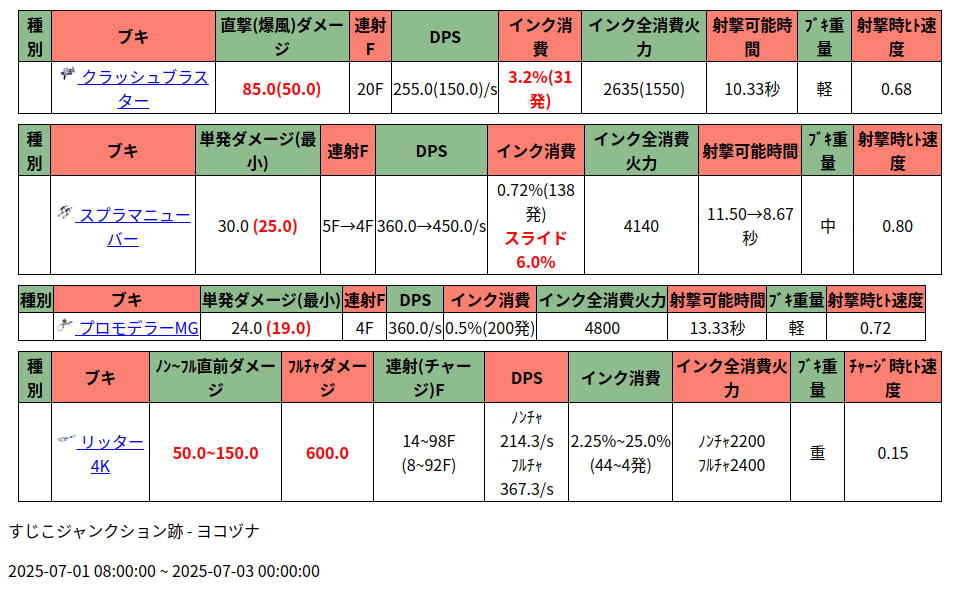
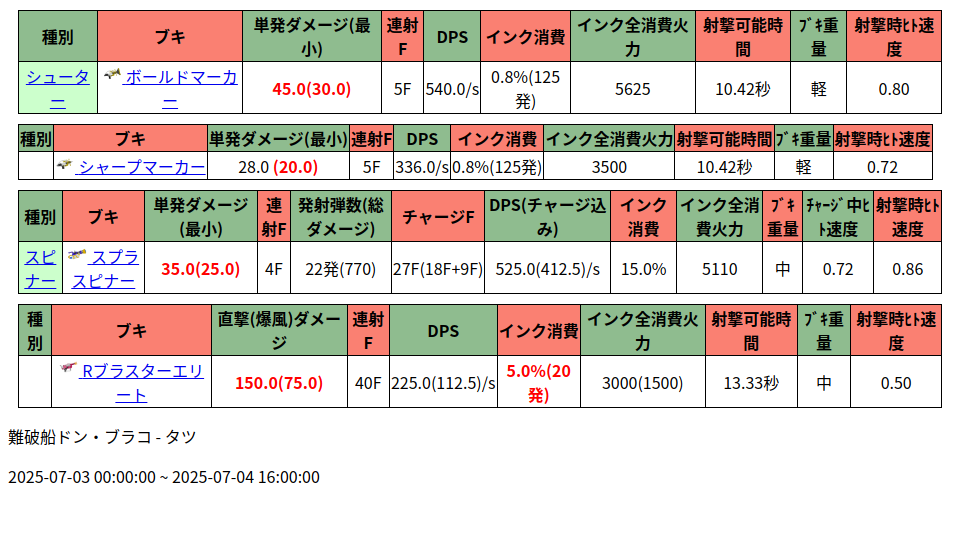
Automated changes by GitHub Actions

diff --git a/salmonRun.html b/salmonRun.html
@@ -1,1 +1,1 @@
-<head><meta charset="UTF-8"><style>table{border-collapse: collapse;border: 1px solid black;margin:10px;}td, th {border: 1px solid black;}</style></head><table><thead> <tr>  <td style="background-color:DarkSeaGreen; text-align:center;">   <strong>    種別   </strong>  </td>  <td style="background-color:Salmon; text-align:center;">   <strong>    ブキ   </strong>  </td>  <td style="background-color:DarkSeaGreen; text-align:center;">   <strong>    直撃(爆風)ダメージ   </strong>  </td>  <td style="background-color:Salmon; text-align:center;">   <strong>    連射F   </strong>  </td>  <td style="background-color:DarkSeaGreen; text-align:center;">   <strong>    DPS   </strong>  </td>  <td style="background-color:Salmon; text-align:center;">   <strong>    インク消費   </strong>  </td>  <td style="background-color:DarkSeaGreen; text-align:center;">   <strong>    インク全消費火力   </strong>  </td>  <td style="background-color:Salmon; text-align:center;">   <strong>    射撃可能時間   </strong>  </td>  <td style="background-color:DarkSeaGreen; text-align:center;">   <strong>    ﾌﾞｷ重量   </strong>  </td>  <td style="background-color:Salmon; text-align:center;">   <strong>    射撃時ﾋﾄ速度   </strong>  </td> </tr></thead><tr><td></td> <td style="text-align:center;">  <a data-lightbox="imageset" href="https://cdn.wikiwiki.jp/to/w/splatoon3mix/icon/::attach/%E3%82%AF%E3%83%A9%E3%83%83%E3%82%B7%E3%83%A5%E3%83%96%E3%83%A9%E3%82%B9%E3%82%BF%E3%83%BC.png?rev=1a0a11ec5a618ee936b01b62ed1a17da&amp;t=20220906104732" title="クラッシュブラスター">   <img alt="クラッシュブラスター" height="20" loading="lazy" src="https://cdn.wikiwiki.jp/to/w/splatoon3mix/icon/::ref/%E3%82%AF%E3%83%A9%E3%83%83%E3%82%B7%E3%83%A5%E3%83%96%E3%83%A9%E3%82%B9%E3%82%BF%E3%83%BC.png?rev=1a0a11ec5a618ee936b01b62ed1a17da&amp;t=20220906104732" title="クラッシュブラスター" width="20"/>  </a>  <a class="rel-wiki-page" href="/splatoon3mix/%E3%83%96%E3%82%AD/%E3%82%AF%E3%83%A9%E3%83%83%E3%82%B7%E3%83%A5%E3%83%96%E3%83%A9%E3%82%B9%E3%82%BF%E3%83%BC" title="ブキ/クラッシュブラスター">   クラッシュブラスター  </a> </td> <td style="text-align:center;">  <span class="wikicolor" style="color:Red">   <strong>    85.0(50.0)   </strong>  </span> </td> <td style="text-align:center;">  20F </td> <td style="text-align:center;">  255.0(150.0)/s </td> <td style="text-align:center;">  <span class="wikicolor" style="color:Red">   <strong>    3.2%(31発)   </strong>  </span> </td> <td style="text-align:center;">  2635(1550) </td> <td style="text-align:center;">  10.33秒 </td> <td style="text-align:center;">  軽 </td> <td style="text-align:center;">  0.68 </td></tr></table><table><thead> <tr>  <td style="background-color:DarkSeaGreen; text-align:center;">   <strong>    種別   </strong>  </td>  <td style="background-color:Salmon; text-align:center;">   <strong>    ブキ   </strong>  </td>  <td style="background-color:DarkSeaGreen; text-align:center;">   <strong>    単発ダメージ(最小)   </strong>  </td>  <td style="background-color:Salmon; text-align:center;">   <strong>    連射F   </strong>  </td>  <td style="background-color:DarkSeaGreen; text-align:center;">   <strong>    DPS   </strong>  </td>  <td style="background-color:Salmon; text-align:center;">   <strong>    インク消費   </strong>  </td>  <td style="background-color:DarkSeaGreen; text-align:center;">   <strong>    インク全消費火力   </strong>  </td>  <td style="background-color:Salmon; text-align:center;">   <strong>    射撃可能時間   </strong>  </td>  <td style="background-color:DarkSeaGreen; text-align:center;">   <strong>    ﾌﾞｷ重量   </strong>  </td>  <td style="background-color:Salmon; text-align:center;">   <strong>    射撃時ﾋﾄ速度   </strong>  </td> </tr></thead><tr><td></td> <td style="text-align:center;">  <a data-lightbox="imageset" href="https://cdn.wikiwiki.jp/to/w/splatoon3mix/icon/::attach/%E3%82%B9%E3%83%97%E3%83%A9%E3%83%9E%E3%83%8B%E3%83%A5%E3%83%BC%E3%83%90%E3%83%BC.png?rev=be5d57005fd92c7aaae40b61da015b9d&amp;t=20220906103827" title="スプラマニューバー">   <img alt="スプラマニューバー" height="20" loading="lazy" src="https://cdn.wikiwiki.jp/to/w/splatoon3mix/icon/::ref/%E3%82%B9%E3%83%97%E3%83%A9%E3%83%9E%E3%83%8B%E3%83%A5%E3%83%BC%E3%83%90%E3%83%BC.png?rev=be5d57005fd92c7aaae40b61da015b9d&amp;t=20220906103827" title="スプラマニューバー" width="20"/>  </a>  <a class="rel-wiki-page" href="/splatoon3mix/%E3%83%96%E3%82%AD/%E3%82%B9%E3%83%97%E3%83%A9%E3%83%9E%E3%83%8B%E3%83%A5%E3%83%BC%E3%83%90%E3%83%BC" title="ブキ/スプラマニューバー">   スプラマニューバー  </a> </td> <td style="text-align:center;">  30.0  <span class="wikicolor" style="color:Red">   <strong>    (25.0)   </strong>  </span> </td> <td style="text-align:center;">  5F→4F </td> <td style="text-align:center;">  360.0→450.0/s </td> <td style="text-align:center;">  0.72%(138発)  <br class="spacer"/>  <span class="wikicolor" style="color:Red">   <strong>    スライド6.0%   </strong>  </span> </td> <td style="text-align:center;">  4140 </td> <td style="text-align:center;">  11.50→8.67秒 </td> <td style="text-align:center;">  中 </td> <td style="text-align:center;">  0.80 </td></tr></table><table><thead> <tr>  <td style="background-color:DarkSeaGreen; text-align:center;">   <strong>    種別   </strong>  </td>  <td style="background-color:Salmon; text-align:center;">   <strong>    ブキ   </strong>  </td>  <td style="background-color:DarkSeaGreen; text-align:center;">   <strong>    単発ダメージ(最小)   </strong>  </td>  <td style="background-color:Salmon; text-align:center;">   <strong>    連射F   </strong>  </td>  <td style="background-color:DarkSeaGreen; text-align:center;">   <strong>    DPS   </strong>  </td>  <td style="background-color:Salmon; text-align:center;">   <strong>    インク消費   </strong>  </td>  <td style="background-color:DarkSeaGreen; text-align:center;">   <strong>    インク全消費火力   </strong>  </td>  <td style="background-color:Salmon; text-align:center;">   <strong>    射撃可能時間   </strong>  </td>  <td style="background-color:DarkSeaGreen; text-align:center;">   <strong>    ﾌﾞｷ重量   </strong>  </td>  <td style="background-color:Salmon; text-align:center;">   <strong>    射撃時ﾋﾄ速度   </strong>  </td> </tr></thead><tr><td></td> <td style="text-align:center;">  <a data-lightbox="imageset" href="https://cdn.wikiwiki.jp/to/w/splatoon3mix/icon/::attach/%E3%83%97%E3%83%AD%E3%83%A2%E3%83%87%E3%83%A9%E3%83%BCMG.png?rev=ffd5754f538379f7283b678366cb4b96&amp;t=20220905214705" title="プロモデラーMG">   <img alt="プロモデラーMG" height="20" loading="lazy" src="https://cdn.wikiwiki.jp/to/w/splatoon3mix/icon/::ref/%E3%83%97%E3%83%AD%E3%83%A2%E3%83%87%E3%83%A9%E3%83%BCMG.png?rev=ffd5754f538379f7283b678366cb4b96&amp;t=20220905214705" title="プロモデラーMG" width="20"/>  </a>  <a class="rel-wiki-page" href="/splatoon3mix/%E3%83%96%E3%82%AD/%E3%83%97%E3%83%AD%E3%83%A2%E3%83%87%E3%83%A9%E3%83%BCMG" title="ブキ/プロモデラーMG">   プロモデラーMG  </a> </td> <td style="text-align:center;">  24.0  <span class="wikicolor" style="color:Red">   <strong>    (19.0)   </strong>  </span> </td> <td style="text-align:center;">  4F </td> <td style="text-align:center;">  360.0/s </td> <td style="text-align:center;">  0.5%(200発) </td> <td style="text-align:center;">  4800 </td> <td style="text-align:center;">  13.33秒 </td> <td style="text-align:center;">  軽 </td> <td style="text-align:center;">  0.72 </td></tr></table><table><thead> <tr>  <td style="background-color:DarkSeaGreen; text-align:center;">   <strong>    種別   </strong>  </td>  <td style="background-color:Salmon; text-align:center;">   <strong>    ブキ   </strong>  </td>  <td style="background-color:DarkSeaGreen; text-align:center;">   <strong>    ﾉﾝ~ﾌﾙ直前ダメージ   </strong>  </td>  <td style="background-color:Salmon; text-align:center;">   <strong>    ﾌﾙﾁｬダメージ   </strong>  </td>  <td style="background-color:DarkSeaGreen; text-align:center;">   <strong>    連射(チャージ)F   </strong>  </td>  <td style="background-color:Salmon; text-align:center;">   <strong>    DPS   </strong>  </td>  <td style="background-color:DarkSeaGreen; text-align:center;">   <strong>    インク消費   </strong>  </td>  <td style="background-color:Salmon; text-align:center;">   <strong>    インク全消費火力   </strong>  </td>  <td style="background-color:DarkSeaGreen; text-align:center;">   <strong>    ﾌﾞｷ重量   </strong>  </td>  <td style="background-color:Salmon; text-align:center;">   <strong>    ﾁｬｰｼﾞ時ﾋﾄ速度   </strong>  </td> </tr></thead><tr><td></td> <td style="text-align:center;">  <a data-lightbox="imageset" href="https://cdn.wikiwiki.jp/to/w/splatoon3mix/icon/::attach/%E3%83%AA%E3%83%83%E3%82%BF%E3%83%BC4K.png?rev=4a0657ab4f525dfc5b33cd1bb2ce976a&amp;t=20220906111947" title="リッター4K">   <img alt="リッター4K" height="20" loading="lazy" src="https://cdn.wikiwiki.jp/to/w/splatoon3mix/icon/::ref/%E3%83%AA%E3%83%83%E3%82%BF%E3%83%BC4K.png?rev=4a0657ab4f525dfc5b33cd1bb2ce976a&amp;t=20220906111947" title="リッター4K" width="20"/>  </a>  <a class="rel-wiki-page" href="/splatoon3mix/%E3%83%96%E3%82%AD/%E3%83%AA%E3%83%83%E3%82%BF%E3%83%BC4K" title="ブキ/リッター4K">   リッター4K  </a> </td> <td style="text-align:center;">  <span class="wikicolor" style="color:Red">   <strong>    50.0~150.0   </strong>  </span> </td> <td style="text-align:center;">  <span class="wikicolor" style="color:Red">   <strong>    600.0   </strong>  </span> </td> <td style="text-align:center;">  14~98F  <br class="spacer"/>  (8~92F) </td> <td style="text-align:center;">  ﾉﾝﾁｬ214.3/s  <br class="spacer"/>  ﾌﾙﾁｬ367.3/s </td> <td style="text-align:center;">  2.25%~25.0%  <br class="spacer"/>  (44~4発) </td> <td style="text-align:center;">  ﾉﾝﾁｬ2200  <br class="spacer"/>  ﾌﾙﾁｬ2400 </td> <td style="text-align:center;">  重 </td> <td style="text-align:center;">  0.15 </td></tr></table><p>すじこジャンクション跡 - ヨコヅナ</p><p>2025-07-01 08:00:00 ~ 2025-07-03 00:00:00</p>
+<head><meta charset="UTF-8"><style>table{border-collapse: collapse;border: 1px solid black;margin:10px;}td, th {border: 1px solid black;}</style></head><table><thead> <tr>  <td style="background-color:DarkSeaGreen; text-align:center;">   <strong>    種別   </strong>  </td>  <td style="background-color:Salmon; text-align:center;">   <strong>    ブキ   </strong>  </td>  <td style="background-color:DarkSeaGreen; text-align:center;">   <strong>    単発ダメージ(最小)   </strong>  </td>  <td style="background-color:Salmon; text-align:center;">   <strong>    連射F   </strong>  </td>  <td style="background-color:DarkSeaGreen; text-align:center;">   <strong>    DPS   </strong>  </td>  <td style="background-color:Salmon; text-align:center;">   <strong>    インク消費   </strong>  </td>  <td style="background-color:DarkSeaGreen; text-align:center;">   <strong>    インク全消費火力   </strong>  </td>  <td style="background-color:Salmon; text-align:center;">   <strong>    射撃可能時間   </strong>  </td>  <td style="background-color:DarkSeaGreen; text-align:center;">   <strong>    ﾌﾞｷ重量   </strong>  </td>  <td style="background-color:Salmon; text-align:center;">   <strong>    射撃時ﾋﾄ速度   </strong>  </td> </tr></thead><tr> <td rowspan="14" style="background-color:#ccffcc; text-align:center;">  <a class="rel-wiki-page" href="/splatoon3mix/%E3%83%96%E3%82%AD/%E3%82%B7%E3%83%A5%E3%83%BC%E3%82%BF%E3%83%BC%E5%B1%9E" title="ブキ/シューター属">   シューター  </a> </td> <td style="text-align:center;">  <a data-lightbox="imageset" href="https://cdn.wikiwiki.jp/to/w/splatoon3mix/icon/::attach/%E3%83%9C%E3%83%BC%E3%83%AB%E3%83%89%E3%83%9E%E3%83%BC%E3%82%AB%E3%83%BC.png?rev=6e3c4434ece589bd5cb6e7cad05cc8d5&amp;t=20230627135358" title="ボールドマーカー">   <img alt="ボールドマーカー" height="20" loading="lazy" src="https://cdn.wikiwiki.jp/to/w/splatoon3mix/icon/::ref/%E3%83%9C%E3%83%BC%E3%83%AB%E3%83%89%E3%83%9E%E3%83%BC%E3%82%AB%E3%83%BC.png?rev=6e3c4434ece589bd5cb6e7cad05cc8d5&amp;t=20230627135358" title="ボールドマーカー" width="20"/>  </a>  <a class="rel-wiki-page" href="/splatoon3mix/%E3%83%96%E3%82%AD/%E3%83%9C%E3%83%BC%E3%83%AB%E3%83%89%E3%83%9E%E3%83%BC%E3%82%AB%E3%83%BC" title="ブキ/ボールドマーカー">   ボールドマーカー  </a> </td> <td style="text-align:center;">  <span class="wikicolor" style="color:Red">   <strong>    45.0(30.0)   </strong>  </span> </td> <td style="text-align:center;">  5F </td> <td style="text-align:center;">  540.0/s </td> <td style="text-align:center;">  0.8%(125発) </td> <td style="text-align:center;">  5625 </td> <td style="text-align:center;">  10.42秒 </td> <td style="text-align:center;">  軽 </td> <td style="text-align:center;">  0.80 </td></tr></table><table><thead> <tr>  <td style="background-color:DarkSeaGreen; text-align:center;">   <strong>    種別   </strong>  </td>  <td style="background-color:Salmon; text-align:center;">   <strong>    ブキ   </strong>  </td>  <td style="background-color:DarkSeaGreen; text-align:center;">   <strong>    単発ダメージ(最小)   </strong>  </td>  <td style="background-color:Salmon; text-align:center;">   <strong>    連射F   </strong>  </td>  <td style="background-color:DarkSeaGreen; text-align:center;">   <strong>    DPS   </strong>  </td>  <td style="background-color:Salmon; text-align:center;">   <strong>    インク消費   </strong>  </td>  <td style="background-color:DarkSeaGreen; text-align:center;">   <strong>    インク全消費火力   </strong>  </td>  <td style="background-color:Salmon; text-align:center;">   <strong>    射撃可能時間   </strong>  </td>  <td style="background-color:DarkSeaGreen; text-align:center;">   <strong>    ﾌﾞｷ重量   </strong>  </td>  <td style="background-color:Salmon; text-align:center;">   <strong>    射撃時ﾋﾄ速度   </strong>  </td> </tr></thead><tr><td></td> <td style="text-align:center;">  <a data-lightbox="imageset" href="https://cdn.wikiwiki.jp/to/w/splatoon3mix/icon/::attach/%E3%82%B7%E3%83%A3%E3%83%BC%E3%83%97%E3%83%9E%E3%83%BC%E3%82%AB%E3%83%BC.png?rev=1f53326ed2f779537426c3ce02a55134&amp;t=20230627135402" title="シャープマーカー">   <img alt="シャープマーカー" height="20" loading="lazy" src="https://cdn.wikiwiki.jp/to/w/splatoon3mix/icon/::ref/%E3%82%B7%E3%83%A3%E3%83%BC%E3%83%97%E3%83%9E%E3%83%BC%E3%82%AB%E3%83%BC.png?rev=1f53326ed2f779537426c3ce02a55134&amp;t=20230627135402" title="シャープマーカー" width="20"/>  </a>  <a class="rel-wiki-page" href="/splatoon3mix/%E3%83%96%E3%82%AD/%E3%82%B7%E3%83%A3%E3%83%BC%E3%83%97%E3%83%9E%E3%83%BC%E3%82%AB%E3%83%BC" title="ブキ/シャープマーカー">   シャープマーカー  </a> </td> <td style="text-align:center;">  28.0  <span class="wikicolor" style="color:Red">   <strong>    (20.0)   </strong>  </span> </td> <td style="text-align:center;">  5F </td> <td style="text-align:center;">  336.0/s </td> <td style="text-align:center;">  0.8%(125発) </td> <td style="text-align:center;">  3500 </td> <td style="text-align:center;">  10.42秒 </td> <td style="text-align:center;">  軽 </td> <td style="text-align:center;">  0.72 </td></tr></table><table><thead> <tr>  <td style="background-color:DarkSeaGreen; text-align:center;">   <strong>    種別   </strong>  </td>  <td style="background-color:Salmon; text-align:center;">   <strong>    ブキ   </strong>  </td>  <td style="background-color:DarkSeaGreen; text-align:center;">   <strong>    単発ダメージ(最小)   </strong>  </td>  <td style="background-color:Salmon; text-align:center;">   <strong>    連射F   </strong>  </td>  <td style="background-color:DarkSeaGreen; text-align:center;">   <strong>    発射弾数(総ダメージ)   </strong>  </td>  <td style="background-color:Salmon; text-align:center;">   <strong>    チャージF   </strong>  </td>  <td style="background-color:DarkSeaGreen; text-align:center;">   <strong>    DPS(チャージ込み)   </strong>  </td>  <td style="background-color:Salmon; text-align:center;">   <strong>    インク消費   </strong>  </td>  <td style="background-color:DarkSeaGreen; text-align:center;">   <strong>    インク全消費火力   </strong>  </td>  <td style="background-color:Salmon; text-align:center;">   <strong>    ﾌﾞｷ重量   </strong>  </td>  <td style="background-color:DarkSeaGreen; text-align:center;">   <strong>    ﾁｬｰｼﾞ中ﾋﾄ速度   </strong>  </td>  <td style="background-color:Salmon; text-align:center;">   <strong>    射撃時ﾋﾄ速度   </strong>  </td> </tr></thead><tr> <td rowspan="6" style="background-color:#ccffcc; text-align:center;">  <a class="rel-wiki-page" href="/splatoon3mix/%E3%83%96%E3%82%AD/%E3%82%B9%E3%83%94%E3%83%8A%E3%83%BC%E5%B1%9E" title="ブキ/スピナー属">   スピナー  </a> </td> <td style="text-align:center;">  <a data-lightbox="imageset" href="https://cdn.wikiwiki.jp/to/w/splatoon3mix/icon/::attach/%E3%82%B9%E3%83%97%E3%83%A9%E3%82%B9%E3%83%94%E3%83%8A%E3%83%BC.png?rev=a030420253495ac7d3cbada380741cd6&amp;t=20220906103818" title="スプラスピナー">   <img alt="スプラスピナー" height="20" loading="lazy" src="https://cdn.wikiwiki.jp/to/w/splatoon3mix/icon/::ref/%E3%82%B9%E3%83%97%E3%83%A9%E3%82%B9%E3%83%94%E3%83%8A%E3%83%BC.png?rev=a030420253495ac7d3cbada380741cd6&amp;t=20220906103818" title="スプラスピナー" width="20"/>  </a>  <a class="rel-wiki-page" href="/splatoon3mix/%E3%83%96%E3%82%AD/%E3%82%B9%E3%83%97%E3%83%A9%E3%82%B9%E3%83%94%E3%83%8A%E3%83%BC" title="ブキ/スプラスピナー">   スプラスピナー  </a> </td> <td style="text-align:center;">  <span class="wikicolor" style="color:Red">   <strong>    35.0(25.0)   </strong>  </span> </td> <td style="text-align:center;">  4F </td> <td style="text-align:center;">  22発(770) </td> <td style="text-align:center;">  27F(18F+9F) </td> <td style="text-align:center;">  525.0(412.5)/s </td> <td style="text-align:center;">  15.0% </td> <td style="text-align:center;">  5110 </td> <td style="text-align:center;">  中 </td> <td style="text-align:center;">  0.72 </td> <td style="text-align:center;">  0.86 </td></tr></table><table><thead> <tr>  <td style="background-color:DarkSeaGreen; text-align:center;">   <strong>    種別   </strong>  </td>  <td style="background-color:Salmon; text-align:center;">   <strong>    ブキ   </strong>  </td>  <td style="background-color:DarkSeaGreen; text-align:center;">   <strong>    直撃(爆風)ダメージ   </strong>  </td>  <td style="background-color:Salmon; text-align:center;">   <strong>    連射F   </strong>  </td>  <td style="background-color:DarkSeaGreen; text-align:center;">   <strong>    DPS   </strong>  </td>  <td style="background-color:Salmon; text-align:center;">   <strong>    インク消費   </strong>  </td>  <td style="background-color:DarkSeaGreen; text-align:center;">   <strong>    インク全消費火力   </strong>  </td>  <td style="background-color:Salmon; text-align:center;">   <strong>    射撃可能時間   </strong>  </td>  <td style="background-color:DarkSeaGreen; text-align:center;">   <strong>    ﾌﾞｷ重量   </strong>  </td>  <td style="background-color:Salmon; text-align:center;">   <strong>    射撃時ﾋﾄ速度   </strong>  </td> </tr></thead><tr><td></td> <td style="text-align:center;">  <a data-lightbox="imageset" href="https://cdn.wikiwiki.jp/to/w/splatoon3mix/icon/::attach/R%E3%83%96%E3%83%A9%E3%82%B9%E3%82%BF%E3%83%BC%E3%82%A8%E3%83%AA%E3%83%BC%E3%83%88.png?rev=fcce0157a057946bd3cffed1dc249664&amp;t=20230918121455" title="Rブラスターエリート">   <img alt="Rブラスターエリート" height="20" loading="lazy" src="https://cdn.wikiwiki.jp/to/w/splatoon3mix/icon/::ref/R%E3%83%96%E3%83%A9%E3%82%B9%E3%82%BF%E3%83%BC%E3%82%A8%E3%83%AA%E3%83%BC%E3%83%88.png?rev=fcce0157a057946bd3cffed1dc249664&amp;t=20230918121455" title="Rブラスターエリート" width="20"/>  </a>  <a class="rel-wiki-page" href="/splatoon3mix/%E3%83%96%E3%82%AD/R%E3%83%96%E3%83%A9%E3%82%B9%E3%82%BF%E3%83%BC%E3%82%A8%E3%83%AA%E3%83%BC%E3%83%88" title="ブキ/Rブラスターエリート">   Rブラスターエリート  </a> </td> <td style="text-align:center;">  <span class="wikicolor" style="color:Red">   <strong>    150.0(75.0)   </strong>  </span> </td> <td style="text-align:center;">  40F </td> <td style="text-align:center;">  225.0(112.5)/s </td> <td style="text-align:center;">  <span class="wikicolor" style="color:Red">   <strong>    5.0%(20発)   </strong>  </span> </td> <td style="text-align:center;">  3000(1500) </td> <td style="text-align:center;">  13.33秒 </td> <td style="text-align:center;">  中 </td> <td style="text-align:center;">  0.50 </td></tr></table><p>難破船ドン・ブラコ - タツ</p><p>2025-07-03 00:00:00 ~ 2025-07-04 16:00:00</p>
